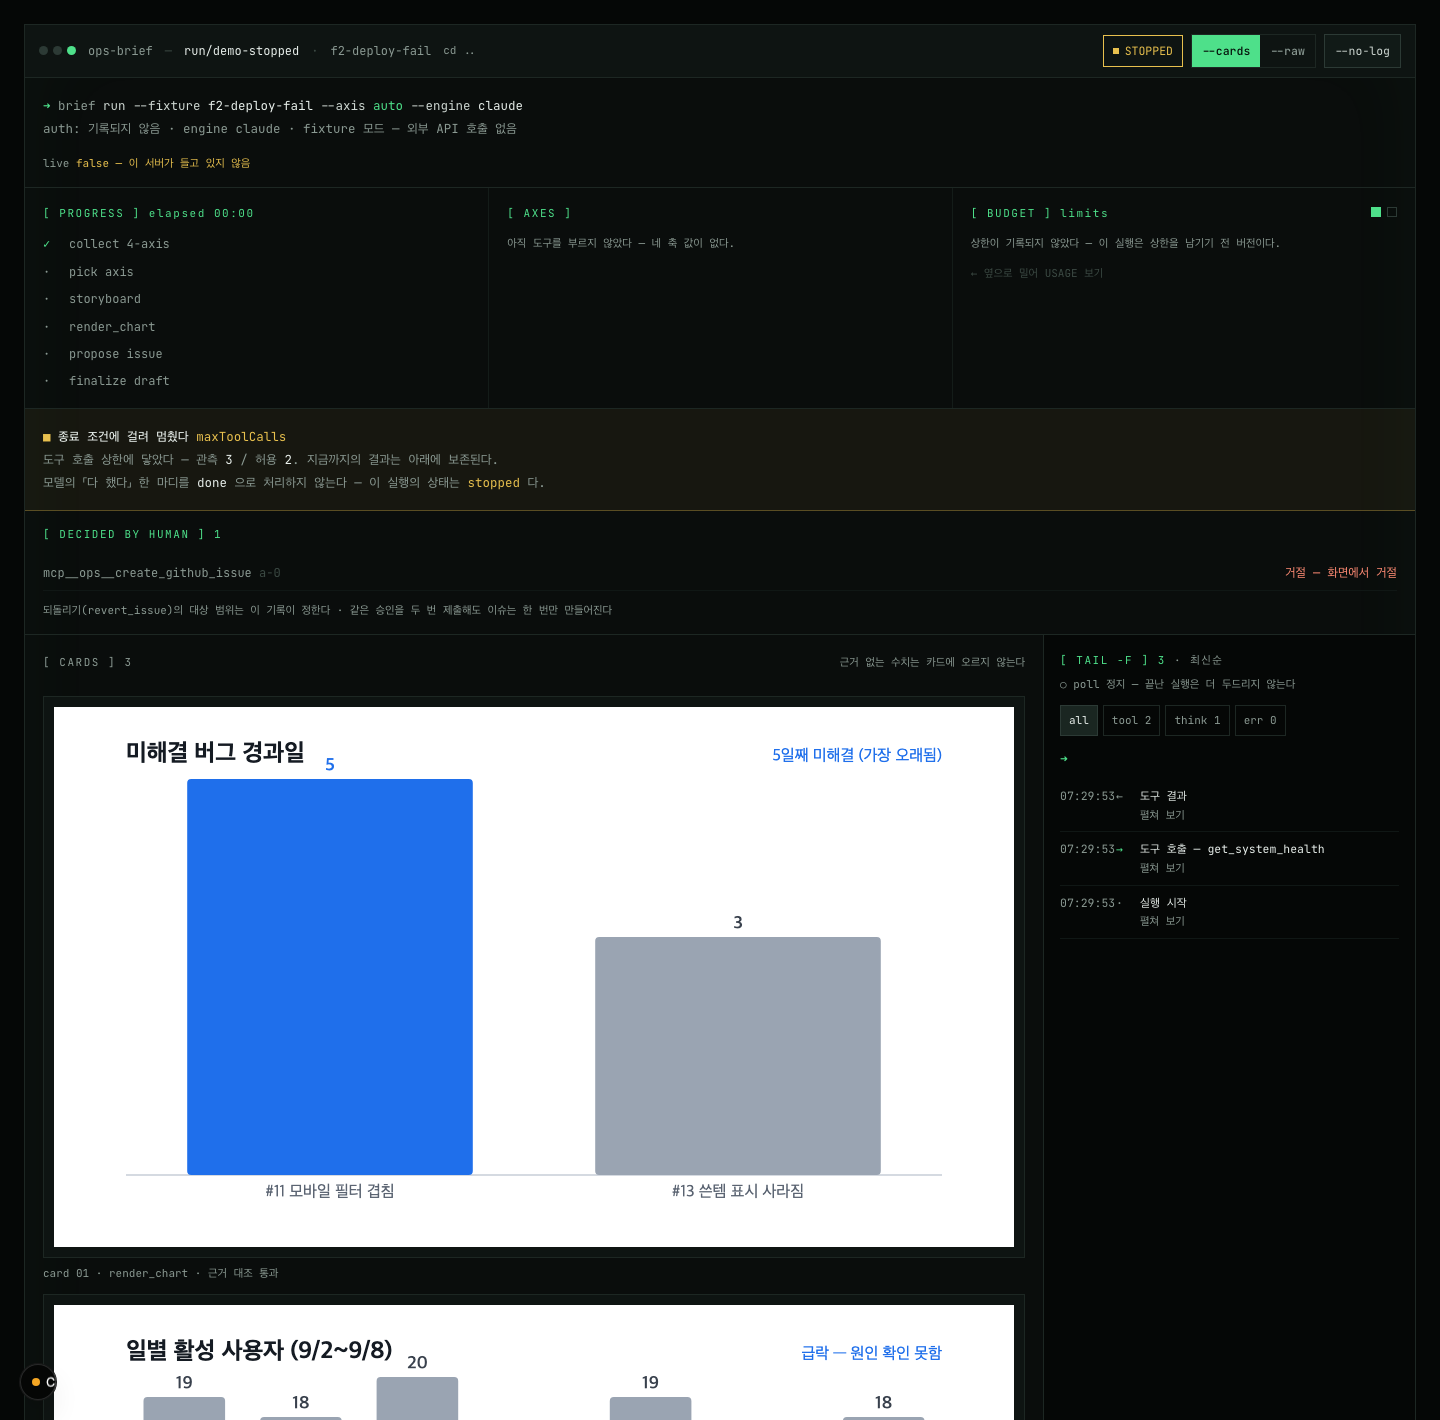
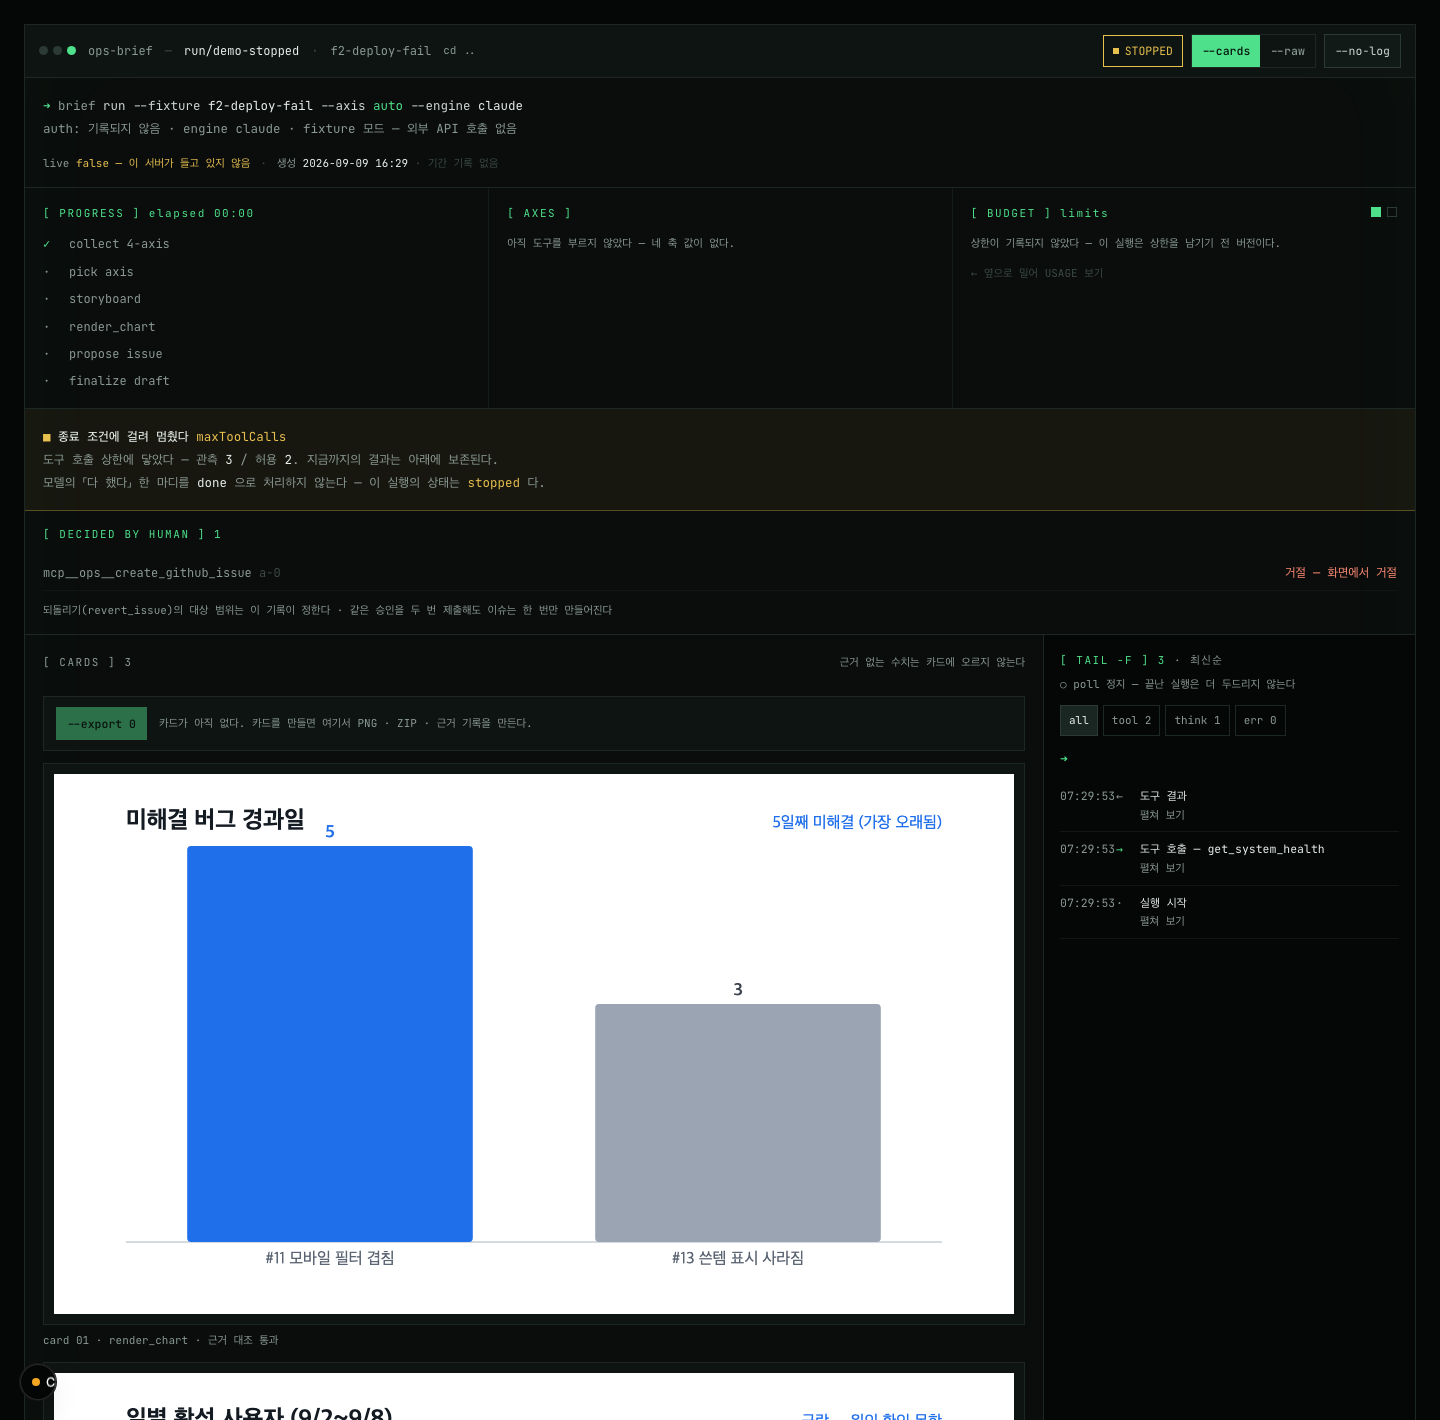
계기 설명을 문단에서 툴팁으로
[ BUDGET ] 아래에 네 줄짜리 설명 문단이 깔려 있어, 계기 세 칸 중 하나만
길어지고 눈이 그리로 쏠렸다. 각 게이지의 툴팁으로 옮기고 한 줄씩 짧게 줄였다.

  cost (est)   SDK 로컬 추정값 · 종료 조건 판정용. 실제 청구액이 아니다
  tool calls   이 실행이 부른 도구 수. 상한에 닿으면 stopped 로 멈춘다
  fresh input  캐시 읽기를 뺀 입력 토큰 · 상한이 재는 값이다
  wall clock   엔진이 잰 실행 시간 · 사람을 기다린 시간은 빠져 있다

「반복 20회 상한은 SDK 가 검사한다」는 [ BUDGET ] 머리글 툴팁으로 뒀다 —
왜 반복 게이지가 없는지가 그 자리에서 답이 된다.

네이티브 title 을 쓰지 않은 이유: 브라우저 크롬이 밝은 배경으로 그리고 1초 지연이 있으며,
캡처에 잡히지 않아 제출물에서는 없는 것과 같다. data-tip + ::after 로 직접 그렸다.
오른쪽 칸은 왼쪽으로 펴 창을 넘지 않는다 (1135px 에서 확인, 가로 스크롤 없음).
마우스만 되는 설명은 반쪽이라 tabIndex 를 열어 키보드 초점으로도 뜨게 했고,
읽어 주는 도구를 위해 aria-label 을 함께 달았다.

실행 상세 높이 3430 → 3390px.

Changed region(s): [[0.0312, 0.8056, 0.7188, 1.0], [0.0312, 0.4958, 0.7188, 0.6197], [0.4062, 0.6507, 0.625, 0.7127]]

diff --git a/app/app/runs/[id]/page.tsx b/app/app/runs/[id]/page.tsx
@@ -558,6 +558,9 @@ export default function RunPage({ params }: { params: Promise<{ id: string }> })
               label={meter === 'budget'
                 ? '[ BUDGET ] limits'
                 : known ? '[ USAGE ] cost_is_estimate: true' : '[ USAGE ] usage_known: false'}
+              hint={meter === 'budget' && lim
+                ? `반복 ${lim.maxTurns}회 상한은 SDK 가 검사한다 — 이 화면은 실제 턴 수를 관측할 수 없어 게이지로 그리지 않는다`
+                : undefined}
               right={
                 <span className="row" style={{ gap: 6 }}>
                   <button className="dot" title="BUDGET" aria-pressed={meter === 'budget'} onClick={() => setMeter('budget')} />
@@ -568,17 +571,16 @@ export default function RunPage({ params }: { params: Promise<{ id: string }> })
             {meter === 'budget' ? (
               lim ? (
                 <div style={{ display: 'flex', flexDirection: 'column', gap: 9, fontSize: 11.5 }}>
+                  {/* 단서는 문단이 아니라 각 줄의 툴팁에 둔다 (마우스를 올리면 나온다). */}
                   <Gauge label="cost (est)" value={known && u ? u.total_cost_usd : null}
-                    max={lim.maxBudgetUsd} prefix="$" digits={2} tone="ok" />
-                  <Gauge label="tool calls" value={toolCalls} max={lim.maxToolCalls} />
-                  <Gauge label="fresh input" value={freshInput} max={lim.maxInputTokens} />
-                  <Gauge label="wall clock" value={Math.round(elapsed)} max={lim.maxElapsedSeconds} unit="s" />
-                  <div className="note">
-                    cost 는 SDK 로컬 추정값 · 종료 조건 판정용.
-                    {' '}fresh input 은 캐시 읽기를 뺀 값이다 — 상한이 그 기준이다.
-                    <br />반복 {lim.maxTurns}회 상한은 <span className="ink">SDK 가 검사한다</span> —
-                    이 화면은 실제 턴 수를 관측할 수 없어 게이지로 그리지 않는다.
-                  </div>
+                    max={lim.maxBudgetUsd} prefix="$" digits={2} tone="ok"
+                    hint="SDK 로컬 추정값 · 종료 조건 판정용. 실제 청구액이 아니다" />
+                  <Gauge label="tool calls" value={toolCalls} max={lim.maxToolCalls}
+                    hint="이 실행이 부른 도구 수. 상한에 닿으면 stopped 로 멈춘다" />
+                  <Gauge label="fresh input" value={freshInput} max={lim.maxInputTokens}
+                    hint="캐시 읽기를 뺀 입력 토큰 · 상한이 재는 값이다" />
+                  <Gauge label="wall clock" value={Math.round(elapsed)} max={lim.maxElapsedSeconds} unit="s"
+                    hint="엔진이 잰 실행 시간 · 사람을 기다린 시간은 빠져 있다" />
                 </div>
               ) : <div className="note">상한이 기록되지 않았다 — 이 실행은 상한을 남기기 전 버전이다.</div>
             ) : (
@@ -591,7 +593,10 @@ export default function RunPage({ params }: { params: Promise<{ id: string }> })
                     <div className="stat"><div className="k">cost (est)</div><div className="v">${u.total_cost_usd.toFixed(4)}</div></div>
                   </div>
                   <div className="note">
-                    cost 는 SDK <span className="ink">클라이언트 측 추정값</span> · 실제 청구액과 다를 수 있다
+                    <span data-tip="SDK 가 번들된 단가표로 로컬 계산한다. 단가 변경·모델 미인식에서 실제 청구와 어긋날 수 있다"
+                      aria-label="cost 는 SDK 가 번들된 단가표로 로컬 계산한 추정값이다">
+                      cost 는 <span className="ink">추정값</span>이다
+                    </span>
                   </div>
                 </div>
               ) : (

diff --git a/app/components/term.tsx b/app/components/term.tsx
@@ -49,12 +49,13 @@ export function StatusBadge({ status, pendingApproval }: {
   );
 }
 
-export function SectionHead({ label, right, tone = 'ok' }: {
-  label: string; right?: React.ReactNode; tone?: Tone;
+export function SectionHead({ label, right, tone = 'ok', hint }: {
+  label: string; right?: React.ReactNode; tone?: Tone; hint?: string;
 }) {
   return (
     <div className="spread" style={{ marginBottom: 12 }}>
-      <span className="sechead" style={{ color: TONE_VAR[tone] }}>{label}</span>
+      <span className="sechead" style={{ color: TONE_VAR[tone] }}
+        {...(hint ? { 'data-tip': hint, 'aria-label': `${label}: ${hint}` } : {})}>{label}</span>
       {right}
     </div>
   );
@@ -100,14 +101,22 @@ export function Bar({ value, max, tone = 'mut' }: {
   );
 }
 
-/** 게이지 한 줄 — 이름 · 분수 · 막대. */
-export function Gauge({ label, value, max, unit, prefix, digits, tone }: {
+/**
+ * 게이지 한 줄 — 이름 · 분수 · 막대.
+ *
+ * 단서는 `hint` 로 받아 **툴팁**에 둔다. 게이지 아래에 문단으로 깔면
+ * 계기 세 칸 중 하나만 설명이 길어져 눈이 그리로 쏠린다.
+ */
+export function Gauge({ label, value, max, unit, prefix, digits, tone, hint }: {
   label: string; value: number | null; max: number;
-  unit?: string; prefix?: string; digits?: number; tone?: Tone;
+  unit?: string; prefix?: string; digits?: number; tone?: Tone; hint?: string;
 }) {
   const show = (n: number) => `${prefix ?? ''}${fmt(n, digits)}${unit ?? ''}`;
   return (
-    <div>
+    // tabIndex 를 열어 키보드로도 툴팁에 닿게 한다 — 마우스만 되는 설명은 반쪽이다.
+    <div {...(hint
+      ? { 'data-tip': hint, 'data-tip-align': 'right', 'aria-label': `${label}: ${hint}`, tabIndex: 0 }
+      : {})}>
       <div className="spread" style={{ marginBottom: 4 }}>
         <span className="mut">{label}</span>
         <span className={value === null ? 'wrn' : 'ink'}>

diff --git a/app/app/globals.css b/app/app/globals.css
@@ -331,3 +331,29 @@ img.chart { display: block; width: 100%; background: #fff; }
 }
 /* 카드는 세로로 길다. 창 높이를 넘지 않게 묶는다 — 넘치면 아래가 잘려 보이지 않는다. */
 .modal img { display: block; max-width: 100%; max-height: calc(100vh - 190px); }
+
+/* ─────────────────────────────────────────── 툴팁
+
+   네이티브 title 은 브라우저 크롬이 그린다 — 밝은 배경에 1초 지연이고,
+   캡처에도 잡히지 않아 제출물에서는 없는 것과 같다. 그래서 직접 그린다.
+   읽어 주는 도구를 위해 호출부에서 aria-label 을 함께 단다.
+*/
+
+[data-tip] { position: relative; }
+[data-tip][tabindex]:focus-visible { outline: 1px solid var(--line-hi); outline-offset: 2px; }
+
+[data-tip]::after {
+  content: attr(data-tip);
+  position: absolute; left: 0; bottom: calc(100% + 6px); z-index: 20;
+  width: max-content; max-width: 260px;
+  padding: 7px 9px;
+  background: var(--raised); border: 1px solid var(--line-hi); color: var(--text);
+  font-size: 11px; line-height: 1.6; text-align: left; white-space: normal;
+  box-shadow: 0 4px 14px rgba(0, 0, 0, .55);
+  opacity: 0; visibility: hidden; transition: opacity .09s linear;
+  pointer-events: none;
+}
+[data-tip]:hover::after, [data-tip]:focus-visible::after { opacity: 1; visibility: visible; }
+
+/* 오른쪽 끝 칸에서는 왼쪽으로 펴야 창을 넘지 않는다. */
+[data-tip][data-tip-align='right']::after { left: auto; right: 0; }
